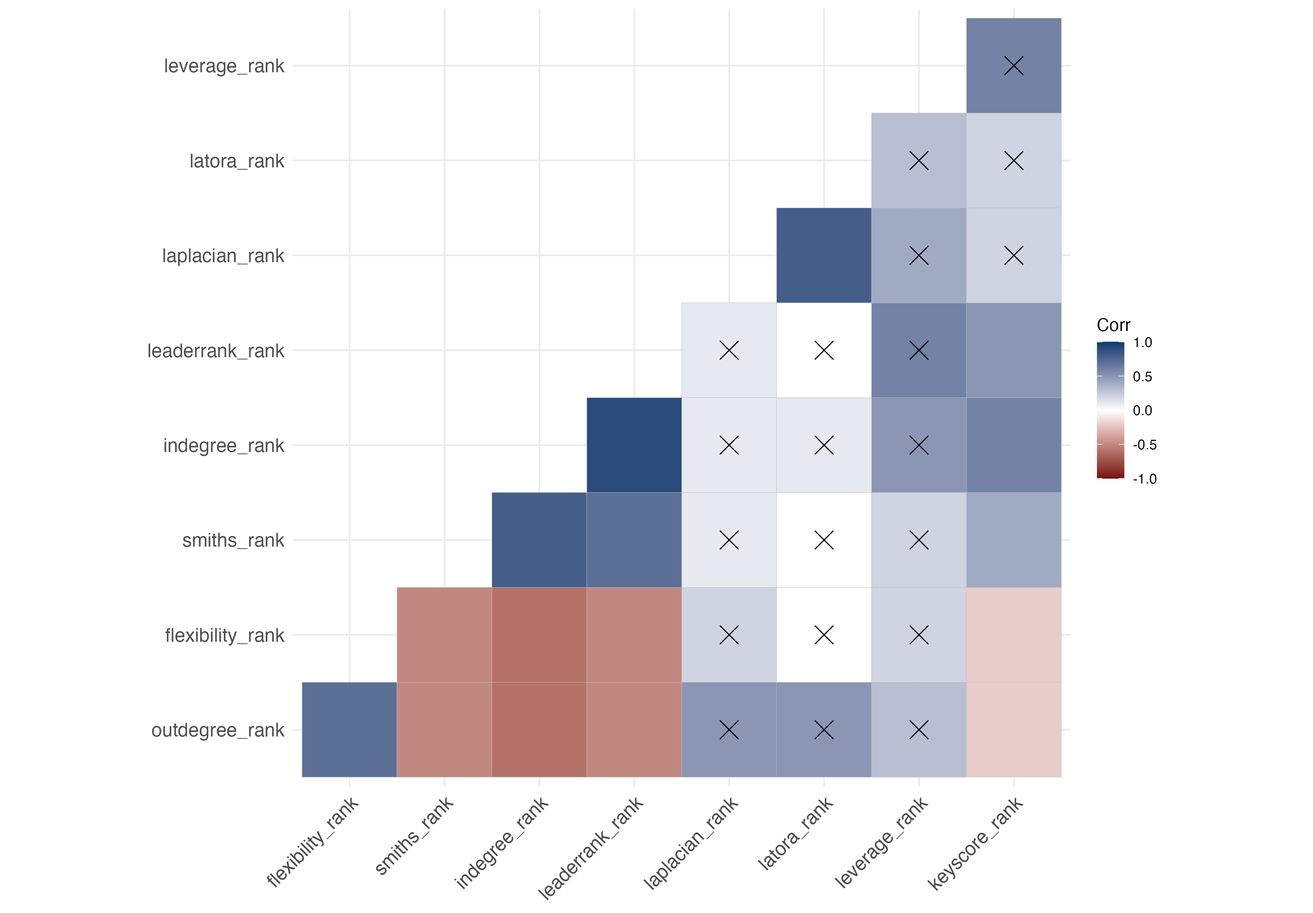
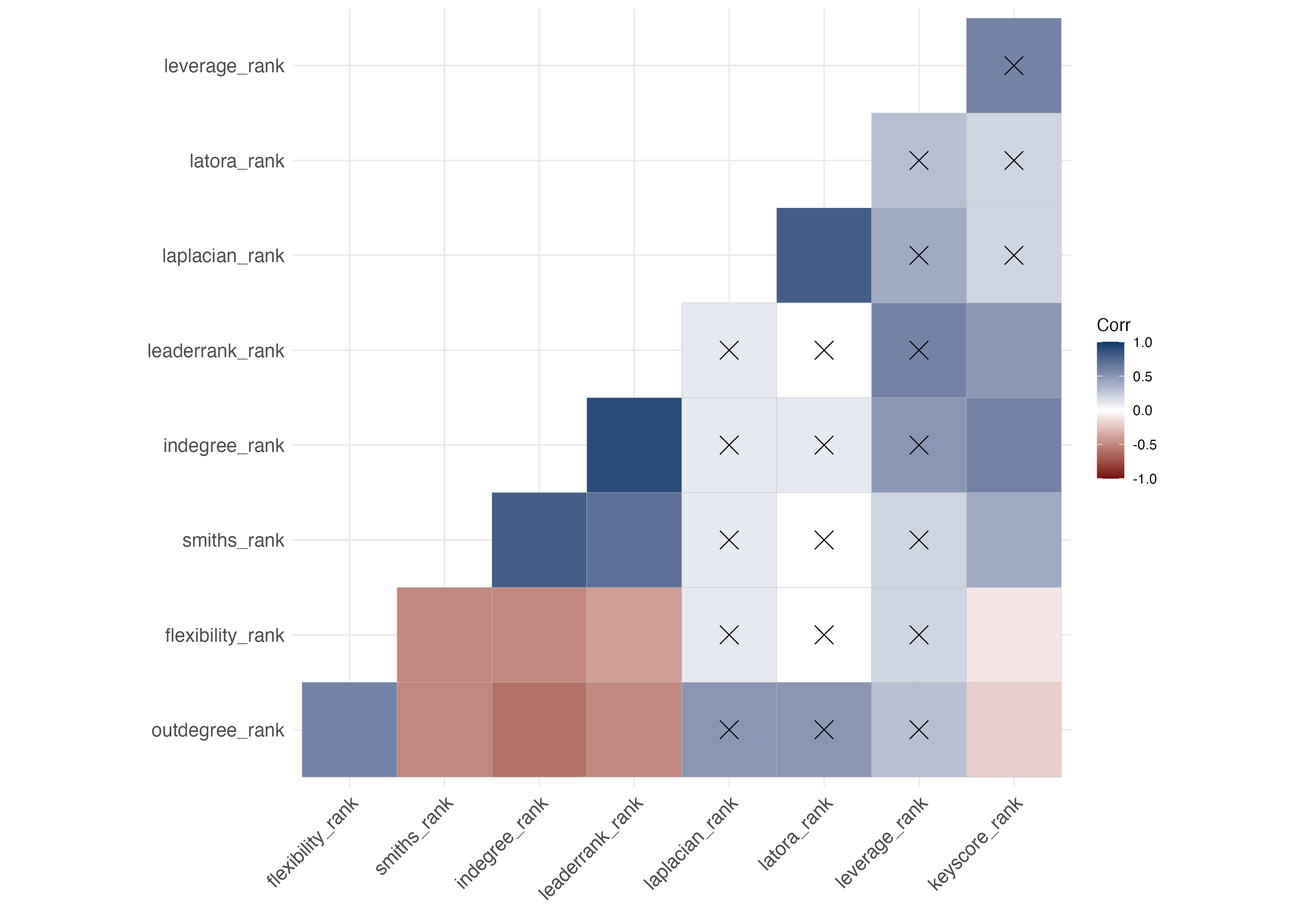
created arranged plots

Changed region(s): [[0.7133, 0.625, 0.8064, 0.75]]

diff --git a/docs/index.html b/docs/index.html
@@ -116,8 +116,8 @@ code span.wa { color: #5e5e5e; font-style: italic; } /* Warning */
   <link rel="license" href="https://creativecommons.org/licenses/by-nc-sa/4.0/"/>
 
   <!--  https://schema.org/Article -->
-  <meta property="article:published" itemprop="datePublished" content="2023-05-07"/>
-  <meta property="article:created" itemprop="dateCreated" content="2023-05-07"/>
+  <meta property="article:published" itemprop="datePublished" content="2023-05-08"/>
+  <meta property="article:created" itemprop="dateCreated" content="2023-05-08"/>
   <meta name="article:author" content="Jeremy F Price"/>
   <meta name="article:author" content="Cristina Santamaría Graff"/>
   <meta name="article:author" content="Akaash Arora"/>
@@ -139,8 +139,8 @@ code span.wa { color: #5e5e5e; font-style: italic; } /* Warning */
   <meta name="citation_title" content="The Analysis is Not the Social Network: The Analysis Is Not The Social Network"/>
   <meta name="citation_fulltext_html_url" content="https://jeremyfprice.github.io/fafi-sna/"/>
   <meta name="citation_fulltext_world_readable" content=""/>
-  <meta name="citation_online_date" content="2023/05/07"/>
-  <meta name="citation_publication_date" content="2023/05/07"/>
+  <meta name="citation_online_date" content="2023/05/08"/>
+  <meta name="citation_publication_date" content="2023/05/08"/>
   <meta name="citation_author" content="Jeremy F Price"/>
   <meta name="citation_author_institution" content="IU School of Education-Indianapolis"/>
   <meta name="citation_author" content="Cristina Santamaría Graff"/>
@@ -190,7 +190,7 @@ code span.wa { color: #5e5e5e; font-style: italic; } /* Warning */
   <!--radix_placeholder_rmarkdown_metadata-->
 
   <script type="text/json" id="radix-rmarkdown-metadata">
-  {"type":"list","attributes":{"names":{"type":"character","attributes":{},"value":["title","description","repository_url","preview","author","slug","date","output","navbar","creative_commons","bibliography","citation_url"]}},"value":[{"type":"character","attributes":{},"value":["The Analysis Is Not The Social Network"]},{"type":"character","attributes":{},"value":["Illuminating the unruly nature of intentional social networks in educational justice efforts.\n"]},{"type":"character","attributes":{},"value":["https://github.com/jeremyfprice/fafi-sna/"]},{"type":"character","attributes":{},"value":["aux/fafi-sna-logo.png"]},{"type":"list","attributes":{},"value":[{"type":"list","attributes":{"names":{"type":"character","attributes":{},"value":["name","url","affiliation","affiliation_url","orcid_id"]}},"value":[{"type":"character","attributes":{},"value":["Jeremy F Price"]},{"type":"character","attributes":{},"value":["https://www.jeremyfprice.info/"]},{"type":"character","attributes":{},"value":["IU School of Education-Indianapolis"]},{"type":"character","attributes":{},"value":["https://education.iupui.edu/"]},{"type":"character","attributes":{},"value":["0000-0002-6506-3526"]}]},{"type":"list","attributes":{"names":{"type":"character","attributes":{},"value":["name","affiliation","affiliation_url","orcid_id"]}},"value":[{"type":"character","attributes":{},"value":["Cristina Santamaría Graff"]},{"type":"character","attributes":{},"value":["IU School of Education-Indianapolis"]},{"type":"character","attributes":{},"value":["https://education.iupui.edu/"]},{"type":"character","attributes":{},"value":["0000-0002-4628-8949"]}]},{"type":"list","attributes":{"names":{"type":"character","attributes":{},"value":["name","affiliation","affiliation_url"]}},"value":[{"type":"character","attributes":{},"value":["Akaash Arora"]},{"type":"character","attributes":{},"value":["IU School of Education-Indianapolis"]},{"type":"character","attributes":{},"value":["https://education.iupui.edu/"]}]},{"type":"list","attributes":{"names":{"type":"character","attributes":{},"value":["name","affiliation","affiliation_url"]}},"value":[{"type":"character","attributes":{},"value":["Román Graff"]},{"type":"character","attributes":{},"value":["Ivy Tech Community College-Indianapolis"]},{"type":"character","attributes":{},"value":["https://www.ivytech.edu/locations/indianapolis/"]}]}]},{"type":"character","attributes":{},"value":["price2023fafisna"]},{"type":"character","attributes":{},"value":["2023-05-07"]},{"type":"list","attributes":{"names":{"type":"character","attributes":{},"value":["distill::distill_article"]}},"value":[{"type":"list","attributes":{"names":{"type":"character","attributes":{},"value":["self_contained","theme"]}},"value":[{"type":"logical","attributes":{},"value":[false]},{"type":"character","attributes":{},"value":["aux/theme.css"]}]}]},{"type":"list","attributes":{"names":{"type":"character","attributes":{},"value":["source_url"]}},"value":[{"type":"character","attributes":{},"value":["https://github.com/jeremyfprice/fafi-sna/"]}]},{"type":"character","attributes":{},"value":["CC BY-NC-SA"]},{"type":"character","attributes":{},"value":["aux/fafi-sna-references.bib"]},{"type":"character","attributes":{},"value":["https://jeremyfprice.github.io/fafi-sna/"]}]}
+  {"type":"list","attributes":{"names":{"type":"character","attributes":{},"value":["title","description","repository_url","preview","author","slug","date","output","navbar","creative_commons","bibliography","citation_url"]}},"value":[{"type":"character","attributes":{},"value":["The Analysis Is Not The Social Network"]},{"type":"character","attributes":{},"value":["Illuminating the unruly nature of intentional social networks in educational justice efforts.\n"]},{"type":"character","attributes":{},"value":["https://github.com/jeremyfprice/fafi-sna/"]},{"type":"character","attributes":{},"value":["aux/fafi-sna-logo.png"]},{"type":"list","attributes":{},"value":[{"type":"list","attributes":{"names":{"type":"character","attributes":{},"value":["name","url","affiliation","affiliation_url","orcid_id"]}},"value":[{"type":"character","attributes":{},"value":["Jeremy F Price"]},{"type":"character","attributes":{},"value":["https://www.jeremyfprice.info/"]},{"type":"character","attributes":{},"value":["IU School of Education-Indianapolis"]},{"type":"character","attributes":{},"value":["https://education.iupui.edu/"]},{"type":"character","attributes":{},"value":["0000-0002-6506-3526"]}]},{"type":"list","attributes":{"names":{"type":"character","attributes":{},"value":["name","affiliation","affiliation_url","orcid_id"]}},"value":[{"type":"character","attributes":{},"value":["Cristina Santamaría Graff"]},{"type":"character","attributes":{},"value":["IU School of Education-Indianapolis"]},{"type":"character","attributes":{},"value":["https://education.iupui.edu/"]},{"type":"character","attributes":{},"value":["0000-0002-4628-8949"]}]},{"type":"list","attributes":{"names":{"type":"character","attributes":{},"value":["name","affiliation","affiliation_url"]}},"value":[{"type":"character","attributes":{},"value":["Akaash Arora"]},{"type":"character","attributes":{},"value":["IU School of Education-Indianapolis"]},{"type":"character","attributes":{},"value":["https://education.iupui.edu/"]}]},{"type":"list","attributes":{"names":{"type":"character","attributes":{},"value":["name","affiliation","affiliation_url"]}},"value":[{"type":"character","attributes":{},"value":["Román Graff"]},{"type":"character","attributes":{},"value":["Ivy Tech Community College-Indianapolis"]},{"type":"character","attributes":{},"value":["https://www.ivytech.edu/locations/indianapolis/"]}]}]},{"type":"character","attributes":{},"value":["price2023fafisna"]},{"type":"character","attributes":{},"value":["2023-05-08"]},{"type":"list","attributes":{"names":{"type":"character","attributes":{},"value":["distill::distill_article"]}},"value":[{"type":"list","attributes":{"names":{"type":"character","attributes":{},"value":["self_contained","theme"]}},"value":[{"type":"logical","attributes":{},"value":[false]},{"type":"character","attributes":{},"value":["aux/theme.css"]}]}]},{"type":"list","attributes":{"names":{"type":"character","attributes":{},"value":["source_url"]}},"value":[{"type":"character","attributes":{},"value":["https://github.com/jeremyfprice/fafi-sna/"]}]},{"type":"character","attributes":{},"value":["CC BY-NC-SA"]},{"type":"character","attributes":{},"value":["aux/fafi-sna-references.bib"]},{"type":"character","attributes":{},"value":["https://jeremyfprice.github.io/fafi-sna/"]}]}
   </script>
   <!--/radix_placeholder_rmarkdown_metadata-->
   <!--radix_placeholder_navigation_in_header-->
@@ -2294,17 +2294,17 @@ code span.wa { color: #5e5e5e; font-style: italic; } /* Warning */
 
   .distill-site-header {
     --title-size:       18px;
-    --text-color:       #EDEBEB;
+    --text-color:       #243142;
     --text-size:        15px;
-    --hover-color:      white;
-    --bkgd-color:       #01426A;
+    --hover-color:      #EDEBEB;
+    --bkgd-color:       #99000066;
   }
 
   .distill-site-footer {
-    --text-color:       #EDEBEB;
+    --text-color:       #243142;
     --text-size:        15px;
-    --hover-color:      white;
-    --bkgd-color:       #01426A;
+    --hover-color:      #EDEBEB;
+    --bkgd-color:       #99000066;
   }
 
   /*-- Additional custom styles --*/
@@ -2507,7 +2507,7 @@ code span.wa { color: #5e5e5e; font-style: italic; } /* Warning */
 <!--radix_placeholder_front_matter-->
 
 <script id="distill-front-matter" type="text/json">
-{"title":"The Analysis Is Not The Social Network","description":"Illuminating the unruly nature of intentional social networks in educational justice efforts.","authors":[{"author":"Jeremy F Price","authorURL":"https://www.jeremyfprice.info/","affiliation":"IU School of Education-Indianapolis","affiliationURL":"https://education.iupui.edu/","orcidID":"0000-0002-6506-3526"},{"author":"Cristina Santamaría Graff","authorURL":"#","affiliation":"IU School of Education-Indianapolis","affiliationURL":"https://education.iupui.edu/","orcidID":"0000-0002-4628-8949"},{"author":"Akaash Arora","authorURL":"#","affiliation":"IU School of Education-Indianapolis","affiliationURL":"https://education.iupui.edu/","orcidID":""},{"author":"Román Graff","authorURL":"#","affiliation":"Ivy Tech Community College-Indianapolis","affiliationURL":"https://www.ivytech.edu/locations/indianapolis/","orcidID":""}],"publishedDate":"2023-05-07T00:00:00.000-04:00","citationText":"Price, et al., 2023"}
+{"title":"The Analysis Is Not The Social Network","description":"Illuminating the unruly nature of intentional social networks in educational justice efforts.","authors":[{"author":"Jeremy F Price","authorURL":"https://www.jeremyfprice.info/","affiliation":"IU School of Education-Indianapolis","affiliationURL":"https://education.iupui.edu/","orcidID":"0000-0002-6506-3526"},{"author":"Cristina Santamaría Graff","authorURL":"#","affiliation":"IU School of Education-Indianapolis","affiliationURL":"https://education.iupui.edu/","orcidID":"0000-0002-4628-8949"},{"author":"Akaash Arora","authorURL":"#","affiliation":"IU School of Education-Indianapolis","affiliationURL":"https://education.iupui.edu/","orcidID":""},{"author":"Román Graff","authorURL":"#","affiliation":"Ivy Tech Community College-Indianapolis","affiliationURL":"https://www.ivytech.edu/locations/indianapolis/","orcidID":""}],"publishedDate":"2023-05-08T00:00:00.000-04:00","citationText":"Price, et al., 2023"}
 </script>
 
 <!--/radix_placeholder_front_matter-->
@@ -2548,7 +2548,7 @@ code span.wa { color: #5e5e5e; font-style: italic; } /* Warning */
   
 ,   Román Graff  (Ivy Tech Community College-Indianapolis)<a href="https://www.ivytech.edu/locations/indianapolis/" class="uri">https://www.ivytech.edu/locations/indianapolis/</a>
   
-<br/>2023-05-07
+<br/>2023-05-08
 </div>
 
 <div class="d-article">
@@ -2906,7 +2906,10 @@ between actors.</p>
 <li><strong>Latora Closeness Centrality.</strong> A measure of <em>efficiency</em> of network graphs, particularly small
 and potentially disconnected graphs, indicating how efficiently information moves through the actor
 and across the network <span class="citation" data-cites="latoraEfficientBehaviorSmallworld2001">(<a href="#ref-latoraEfficientBehaviorSmallworld2001" role="doc-biblioref">Latora and Marchiori 2001</a>)</span>.</li>
-<li><strong>Leader Rank Centrality.</strong> <span class="citation" data-cites="luLeadersSocialNetworks2011">(<a href="#ref-luLeadersSocialNetworks2011" role="doc-biblioref">Lü et al. 2011</a>)</span>.</li>
+<li><strong>Leader Rank Centrality.</strong> A measure of influence, identifying actors who facilitate the rapid
+and wide spread of information across the network, an algorithm developed specifically for
+social networks rather than similar algorithms designed for web pages
+<span class="citation" data-cites="luLeadersSocialNetworks2011">(<a href="#ref-luLeadersSocialNetworks2011" role="doc-biblioref">Lü et al. 2011</a>)</span>.</li>
 <li><strong>Leverage Centrality.</strong> A measure of how “in the thick of it” an actor is, based on who they are connected to and who those actors are connected to, while accounting for parallel, not just serial, flows of information <span class="citation" data-cites="joyceNewMeasureCentrality2010">(<a href="#ref-joyceNewMeasureCentrality2010" role="doc-biblioref">Joyce et al. 2010</a>)</span>.</li>
 </ul>
 <div class="layout-chunk" data-layout="l-body">
@@ -2979,20 +2982,15 @@ and across the network <span class="citation" data-cites="latoraEfficientBehavio
 <span>  <span class='va'>key.res</span><span class='op'>$</span><span class='va'>actor</span> <span class='op'>&lt;-</span> <span class='fu'><a href='https://rdrr.io/r/base/row.names.html'>row.names</a></span><span class='op'>(</span><span class='va'>key.res</span><span class='op'>)</span></span>
 <span>  <span class='fu'><a href='https://rdrr.io/r/base/row.names.html'>row.names</a></span><span class='op'>(</span><span class='va'>key.res</span><span class='op'>)</span> <span class='op'>&lt;-</span> <span class='cn'>NULL</span></span>
 <span>  <span class='va'>key.frame</span> <span class='op'>&lt;-</span> <span class='va'>key.frame</span> <span class='op'>|&gt;</span></span>
-<span>    <span class='fu'><a href='https://dplyr.tidyverse.org/reference/mutate-joins.html'>left_join</a></span><span class='op'>(</span><span class='va'>key.res</span><span class='op'>)</span> <span class='op'>|&gt;</span></span>
-<span>    <span class='fu'><a href='https://dplyr.tidyverse.org/reference/mutate.html'>mutate</a></span><span class='op'>(</span>color_code <span class='op'>=</span> <span class='fu'><a href='https://rdrr.io/r/base/substr.html'>substr</a></span><span class='op'>(</span><span class='va'>key.frame</span><span class='op'>$</span><span class='va'>actor</span>, <span class='fl'>1</span>, <span class='fl'>2</span><span class='op'>)</span><span class='op'>)</span> <span class='op'>|&gt;</span></span>
-<span>    <span class='fu'><a href='https://dplyr.tidyverse.org/reference/mutate.html'>mutate</a></span><span class='op'>(</span>id_no <span class='op'>=</span> <span class='fu'><a href='https://rdrr.io/r/base/substr.html'>substr</a></span><span class='op'>(</span><span class='va'>key.frame</span><span class='op'>$</span><span class='va'>actor</span>, <span class='fl'>3</span>, <span class='fl'>4</span><span class='op'>)</span><span class='op'>)</span> <span class='op'>|&gt;</span></span>
-<span>    <span class='fu'><a href='https://dplyr.tidyverse.org/reference/mutate-joins.html'>left_join</a></span><span class='op'>(</span><span class='va'>the.abbrev</span><span class='op'>)</span> <span class='op'>|&gt;</span></span>
-<span>    <span class='fu'><a href='https://dplyr.tidyverse.org/reference/mutate.html'>mutate</a></span><span class='op'>(</span>label <span class='op'>=</span> <span class='fu'><a href='https://glue.tidyverse.org/reference/glue.html'>glue</a></span><span class='op'>(</span><span class='st'>"{full} {id_no}"</span><span class='op'>)</span><span class='op'>)</span> <span class='op'>|&gt;</span></span>
-<span>    <span class='fu'><a href='https://dplyr.tidyverse.org/reference/select.html'>select</a></span><span class='op'>(</span><span class='op'>-</span><span class='va'>full</span>, <span class='op'>-</span><span class='va'>id_no</span><span class='op'>)</span></span>
+<span>    <span class='fu'><a href='https://dplyr.tidyverse.org/reference/mutate-joins.html'>left_join</a></span><span class='op'>(</span><span class='va'>key.res</span><span class='op'>)</span></span>
 <span>  <span class='va'>leaderrank.fence</span> <span class='op'>&lt;-</span> <span class='fu'>calculate.tukey</span><span class='op'>(</span><span class='va'>key.frame</span><span class='op'>$</span><span class='va'>leaderrank</span><span class='op'>)</span></span>
 <span>  <span class='va'>key.frame.leaderrank.trimmed</span> <span class='op'>&lt;-</span> <span class='va'>key.frame</span> <span class='op'>|&gt;</span></span>
 <span>    <span class='fu'><a href='https://dplyr.tidyverse.org/reference/filter.html'>filter</a></span><span class='op'>(</span><span class='va'>leaderrank</span> <span class='op'>&gt;=</span> <span class='va'>leaderrank.fence</span><span class='op'>$</span><span class='va'>lower</span> <span class='op'>&amp;</span> <span class='va'>leaderrank</span> <span class='op'>&lt;=</span> <span class='va'>leaderrank.fence</span><span class='op'>$</span><span class='va'>upper</span><span class='op'>)</span></span>
 <span>  <span class='va'>leverage.fence</span> <span class='op'>&lt;-</span> <span class='fu'>calculate.tukey</span><span class='op'>(</span><span class='va'>key.frame</span><span class='op'>$</span><span class='va'>leverage</span><span class='op'>)</span></span>
 <span>  <span class='va'>key.frame.leverage.trimmed</span> <span class='op'>&lt;-</span> <span class='va'>key.frame</span> <span class='op'>|&gt;</span></span>
 <span>    <span class='fu'><a href='https://dplyr.tidyverse.org/reference/filter.html'>filter</a></span><span class='op'>(</span><span class='va'>leverage</span> <span class='op'>&gt;=</span> <span class='va'>leverage.fence</span><span class='op'>$</span><span class='va'>lower</span> <span class='op'>&amp;</span> <span class='va'>leverage.fence</span><span class='op'>$</span><span class='va'>upper</span><span class='op'>)</span></span>
-<span>  <span class='va'>key.ymean</span> <span class='op'>&lt;-</span> <span class='fu'><a href='https://rdrr.io/r/base/mean.html'>mean</a></span><span class='op'>(</span><span class='va'>key.frame.leaderrank.trimmed</span><span class='op'>$</span><span class='va'>leaderrank</span><span class='op'>)</span></span>
-<span>  <span class='va'>key.xmean</span> <span class='op'>&lt;-</span> <span class='fu'><a href='https://rdrr.io/r/base/mean.html'>mean</a></span><span class='op'>(</span><span class='va'>key.frame.leverage.trimmed</span><span class='op'>$</span><span class='va'>leverage</span><span class='op'>)</span></span>
+<span>  <span class='va'>key.ymean</span> <span class='op'>&lt;&lt;-</span> <span class='fu'><a href='https://rdrr.io/r/base/mean.html'>mean</a></span><span class='op'>(</span><span class='va'>key.frame.leaderrank.trimmed</span><span class='op'>$</span><span class='va'>leaderrank</span><span class='op'>)</span></span>
+<span>  <span class='va'>key.xmean</span> <span class='op'>&lt;&lt;-</span> <span class='fu'><a href='https://rdrr.io/r/base/mean.html'>mean</a></span><span class='op'>(</span><span class='va'>key.frame.leverage.trimmed</span><span class='op'>$</span><span class='va'>leverage</span><span class='op'>)</span></span>
 <span>  <span class='va'>key.frame</span> <span class='op'>&lt;-</span> <span class='va'>key.frame</span> <span class='op'>|&gt;</span></span>
 <span>    <span class='fu'><a href='https://dplyr.tidyverse.org/reference/mutate.html'>mutate</a></span><span class='op'>(</span>keystatus <span class='op'>=</span> <span class='fu'><a href='https://dplyr.tidyverse.org/reference/case_when.html'>case_when</a></span><span class='op'>(</span></span>
 <span>      <span class='op'>(</span><span class='va'>leaderrank</span> <span class='op'>&gt;</span> <span class='va'>key.ymean</span> <span class='op'>&amp;</span> <span class='va'>leverage</span> <span class='op'>&gt;</span> <span class='va'>key.xmean</span><span class='op'>)</span> <span class='op'>~</span> <span class='st'>"Sage"</span>,</span>
@@ -3004,9 +3002,8 @@ and across the network <span class="citation" data-cites="latoraEfficientBehavio
 <span>    <span class='fu'><a href='https://dplyr.tidyverse.org/reference/arrange.html'>arrange</a></span><span class='op'>(</span><span class='fu'><a href='https://dplyr.tidyverse.org/reference/desc.html'>desc</a></span><span class='op'>(</span><span class='va'>res</span><span class='op'>)</span>, <span class='fu'><a href='https://dplyr.tidyverse.org/reference/desc.html'>desc</a></span><span class='op'>(</span><span class='va'>SmithsS</span><span class='op'>)</span><span class='op'>)</span> <span class='op'>|&gt;</span></span>
 <span>    <span class='fu'><a href='https://rdrr.io/r/base/unique.html'>unique</a></span><span class='op'>(</span><span class='op'>)</span> <span class='op'>|&gt;</span></span>
 <span>    <span class='fu'><a href='https://dplyr.tidyverse.org/reference/group_by.html'>ungroup</a></span><span class='op'>(</span><span class='op'>)</span></span>
-<span>  <span class='fu'>plot.keyactors</span><span class='op'>(</span><span class='va'>key.frame</span>, <span class='va'>key.xmean</span>, <span class='va'>key.ymean</span>, <span class='va'>the.file</span><span class='op'>)</span></span>
-<span>  <span class='va'>key.frame</span> <span class='op'>&lt;-</span> <span class='va'>key.frame</span> <span class='op'><a href='https://magrittr.tidyverse.org/reference/pipe.html'>%&gt;%</a></span></span>
-<span>    <span class='fu'><a href='https://dplyr.tidyverse.org/reference/select.html'>select</a></span><span class='op'>(</span><span class='va'>actor</span>, <span class='va'>leverage</span>, <span class='va'>leaderrank</span>, <span class='va'>res</span>, <span class='va'>SmithsS</span>, <span class='va'>keystatus</span><span class='op'>)</span> <span class='op'><a href='https://magrittr.tidyverse.org/reference/pipe.html'>%&gt;%</a></span></span>
+<span>  <span class='va'>key.frame</span> <span class='op'>&lt;-</span> <span class='va'>key.frame</span> <span class='op'>|&gt;</span></span>
+<span>    <span class='fu'><a href='https://dplyr.tidyverse.org/reference/select.html'>select</a></span><span class='op'>(</span><span class='va'>actor</span>, <span class='va'>leverage</span>, <span class='va'>leaderrank</span>, <span class='va'>res</span>, <span class='va'>SmithsS</span>, <span class='va'>keystatus</span><span class='op'>)</span> <span class='op'>|&gt;</span></span>
 <span>    <span class='fu'><a href='https://dplyr.tidyverse.org/reference/arrange.html'>arrange</a></span><span class='op'>(</span><span class='va'>keystatus</span>, <span class='fu'><a href='https://dplyr.tidyverse.org/reference/desc.html'>desc</a></span><span class='op'>(</span><span class='va'>res</span><span class='op'>)</span>, <span class='fu'><a href='https://dplyr.tidyverse.org/reference/desc.html'>desc</a></span><span class='op'>(</span><span class='va'>SmithsS</span><span class='op'>)</span><span class='op'>)</span></span>
 <span>  <span class='kw'><a href='https://rdrr.io/r/base/function.html'>return</a></span><span class='op'>(</span><span class='va'>key.frame</span><span class='op'>)</span></span>
 <span><span class='op'>}</span></span></code></pre>
@@ -3015,8 +3012,8 @@ and across the network <span class="citation" data-cites="latoraEfficientBehavio
 <h4 id="plot-key-actors-function">Plot Key Actors Function</h4>
 <div class="layout-chunk" data-layout="l-body">
 <div class="sourceCode">
-<pre class="sourceCode r"><code class="sourceCode r"><span><span class='va'>plot.keyactors</span> <span class='op'>&lt;-</span> <span class='kw'>function</span><span class='op'>(</span><span class='va'>key.frame</span>, <span class='va'>key.xmean</span>, <span class='va'>key.ymean</span>, <span class='va'>the.file</span><span class='op'>)</span> <span class='op'>{</span></span>
-<span>  <span class='va'>the.filename</span> <span class='op'>&lt;-</span> <span class='fu'><a href='https://glue.tidyverse.org/reference/glue.html'>glue</a></span><span class='op'>(</span><span class='st'>"output/keyactors_{the.file}.pdf"</span><span class='op'>)</span></span>
+<pre class="sourceCode r"><code class="sourceCode r"><span><span class='va'>plot.keyactors</span> <span class='op'>&lt;-</span> <span class='kw'>function</span><span class='op'>(</span><span class='va'>key.frame</span>, <span class='va'>the.file</span><span class='op'>)</span> <span class='op'>{</span></span>
+<span>  <span class='va'>the.filename</span> <span class='op'>&lt;-</span> <span class='fu'><a href='https://glue.tidyverse.org/reference/glue.html'>glue</a></span><span class='op'>(</span><span class='st'>"keyactors_{the.file}-plot"</span><span class='op'>)</span></span>
 <span>  <span class='va'>key.xmin</span> <span class='op'>&lt;-</span> <span class='fu'><a href='https://rdrr.io/r/base/Extremes.html'>min</a></span><span class='op'>(</span><span class='va'>key.frame</span><span class='op'>$</span><span class='va'>leverage</span><span class='op'>)</span></span>
 <span>  <span class='va'>key.xmax</span> <span class='op'>&lt;-</span> <span class='fu'><a href='https://rdrr.io/r/base/Extremes.html'>max</a></span><span class='op'>(</span><span class='va'>key.frame</span><span class='op'>$</span><span class='va'>leverage</span><span class='op'>)</span></span>
 <span>  <span class='va'>key.ymin</span> <span class='op'>&lt;-</span> <span class='fu'><a href='https://rdrr.io/r/base/Extremes.html'>min</a></span><span class='op'>(</span><span class='va'>key.frame</span><span class='op'>$</span><span class='va'>leaderrank</span><span class='op'>)</span></span>
@@ -3024,6 +3021,12 @@ and across the network <span class="citation" data-cites="latoraEfficientBehavio
 <span>  <span class='va'>steward.count</span> <span class='op'>&lt;-</span> <span class='fu'>count.keyactors</span><span class='op'>(</span><span class='va'>key.frame</span>, <span class='st'>"Steward"</span><span class='op'>)</span></span>
 <span>  <span class='va'>sage.count</span> <span class='op'>&lt;-</span> <span class='fu'>count.keyactors</span><span class='op'>(</span><span class='va'>key.frame</span>, <span class='st'>"Sage"</span><span class='op'>)</span></span>
 <span>  <span class='va'>weaver.count</span> <span class='op'>&lt;-</span> <span class='fu'>count.keyactors</span><span class='op'>(</span><span class='va'>key.frame</span>, <span class='st'>"Weaver"</span><span class='op'>)</span></span>
+<span>  <span class='va'>key.frame</span> <span class='op'>&lt;-</span> <span class='va'>key.frame</span>  <span class='op'>|&gt;</span></span>
+<span>    <span class='fu'><a href='https://dplyr.tidyverse.org/reference/mutate.html'>mutate</a></span><span class='op'>(</span>color_code <span class='op'>=</span> <span class='fu'><a href='https://rdrr.io/r/base/substr.html'>substr</a></span><span class='op'>(</span><span class='va'>key.frame</span><span class='op'>$</span><span class='va'>actor</span>, <span class='fl'>1</span>, <span class='fl'>2</span><span class='op'>)</span><span class='op'>)</span> <span class='op'>|&gt;</span></span>
+<span>    <span class='fu'><a href='https://dplyr.tidyverse.org/reference/mutate.html'>mutate</a></span><span class='op'>(</span>id_no <span class='op'>=</span> <span class='fu'><a href='https://rdrr.io/r/base/substr.html'>substr</a></span><span class='op'>(</span><span class='va'>key.frame</span><span class='op'>$</span><span class='va'>actor</span>, <span class='fl'>3</span>, <span class='fl'>4</span><span class='op'>)</span><span class='op'>)</span> <span class='op'>|&gt;</span></span>
+<span>    <span class='fu'><a href='https://dplyr.tidyverse.org/reference/mutate-joins.html'>left_join</a></span><span class='op'>(</span><span class='va'>the.abbrev</span><span class='op'>)</span> <span class='op'>|&gt;</span></span>
+<span>    <span class='fu'><a href='https://dplyr.tidyverse.org/reference/mutate.html'>mutate</a></span><span class='op'>(</span>label <span class='op'>=</span> <span class='fu'><a href='https://glue.tidyverse.org/reference/glue.html'>glue</a></span><span class='op'>(</span><span class='st'>"{full} {id_no}"</span><span class='op'>)</span><span class='op'>)</span> <span class='op'>|&gt;</span></span>
+<span>    <span class='fu'><a href='https://dplyr.tidyverse.org/reference/select.html'>select</a></span><span class='op'>(</span><span class='op'>-</span><span class='va'>full</span>, <span class='op'>-</span><span class='va'>id_no</span><span class='op'>)</span></span>
 <span>  <span class='va'>key.plot</span> <span class='op'>&lt;-</span> <span class='fu'><a href='https://rpkgs.datanovia.com/ggpubr/reference/ggscatter.html'>ggscatter</a></span><span class='op'>(</span><span class='va'>key.frame</span>,</span>
 <span>    x <span class='op'>=</span> <span class='st'>"leverage"</span>, y <span class='op'>=</span> <span class='st'>"leaderrank"</span>,</span>
 <span>    label <span class='op'>=</span> <span class='st'>"label"</span>, label.rectangle <span class='op'>=</span> <span class='cn'>FALSE</span>, repel <span class='op'>=</span> <span class='cn'>TRUE</span>,</span>
@@ -3054,7 +3057,7 @@ and across the network <span class="citation" data-cites="latoraEfficientBehavio
 <span>    <span class='op'>)</span>, color <span class='op'>=</span> <span class='st'>"#243142"</span>, fill <span class='op'>=</span> <span class='st'>"#A7A9AB"</span><span class='op'>)</span> <span class='op'>+</span></span>
 <span>    <span class='fu'><a href='https://rdrr.io/pkg/ggthemes/man/theme_few.html'>theme_few</a></span><span class='op'>(</span><span class='op'>)</span> <span class='op'>+</span></span>
 <span>    <span class='fu'><a href='https://ggplot2.tidyverse.org/reference/theme.html'>theme</a></span><span class='op'>(</span>legend.position <span class='op'>=</span> <span class='st'>"none"</span><span class='op'>)</span></span>
-<span>  <span class='fu'><a href='https://ggplot2.tidyverse.org/reference/ggsave.html'>ggsave</a></span><span class='op'>(</span><span class='va'>key.plot</span>, filename <span class='op'>=</span> <span class='va'>the.filename</span>, width <span class='op'>=</span> <span class='fl'>11.5</span>, height <span class='op'>=</span> <span class='fl'>8</span>, units <span class='op'>=</span> <span class='st'>"in"</span>, dpi <span class='op'>=</span> <span class='fl'>300</span><span class='op'>)</span></span>
+<span>  <span class='fu'>plot.save</span><span class='op'>(</span><span class='va'>key.plot</span>, <span class='va'>the.filename</span><span class='op'>)</span></span>
 <span>  <span class='kw'><a href='https://rdrr.io/r/base/function.html'>return</a></span><span class='op'>(</span><span class='va'>key.plot</span><span class='op'>)</span></span>
 <span><span class='op'>}</span></span></code></pre>
 </div>
@@ -3152,7 +3155,8 @@ and across the network <span class="citation" data-cites="latoraEfficientBehavio
 <span>  <span class='va'>jaccard.1</span> <span class='op'>&lt;-</span> <span class='fu'>calculate.jaccard</span><span class='op'>(</span><span class='va'>set1</span>, <span class='va'>set2</span><span class='op'>)</span></span>
 <span>  <span class='va'>jaccard.2</span> <span class='op'>&lt;-</span> <span class='fu'>calculate.jaccard</span><span class='op'>(</span><span class='va'>set2</span>, <span class='va'>set3</span><span class='op'>)</span></span>
 <span>  <span class='va'>jaccard.3</span> <span class='op'>&lt;-</span> <span class='fu'>calculate.jaccard</span><span class='op'>(</span><span class='va'>set1</span>, <span class='va'>set3</span><span class='op'>)</span></span>
-<span>  <span class='va'>the.flexibility</span> <span class='op'>&lt;-</span> <span class='fl'>1</span> <span class='op'>-</span> <span class='op'>(</span><span class='op'>(</span><span class='fl'>1</span> <span class='op'>/</span> <span class='op'>(</span><span class='fl'>3</span> <span class='op'>*</span> <span class='op'>(</span><span class='fl'>3</span> <span class='op'>-</span> <span class='fl'>1</span><span class='op'>)</span><span class='op'>)</span> <span class='op'>*</span> <span class='op'>(</span><span class='va'>jaccard.1</span> <span class='op'>+</span> <span class='va'>jaccard.2</span> <span class='op'>+</span> <span class='va'>jaccard.3</span><span class='op'>)</span><span class='op'>)</span> <span class='op'>/</span> <span class='fl'>3</span><span class='op'>)</span></span>
+<span>  <span class='co'>#the.flexibility &lt;- 1 - ((1 / (3 * (3 - 1)) * (jaccard.1 + jaccard.2 + jaccard.3)) / 3)</span></span>
+<span>  <span class='va'>the.flexibility</span> <span class='op'>&lt;-</span> <span class='fl'>1</span> <span class='op'>-</span> <span class='op'>(</span><span class='op'>(</span><span class='va'>jaccard.1</span> <span class='op'>+</span> <span class='va'>jaccard.2</span> <span class='op'>+</span> <span class='va'>jaccard.3</span><span class='op'>)</span> <span class='op'>/</span> <span class='fl'>3</span><span class='op'>)</span></span>
 <span>  <span class='va'>response.frame</span> <span class='op'>&lt;-</span> <span class='fu'><a href='https://rdrr.io/r/base/data.frame.html'>data.frame</a></span><span class='op'>(</span>actor <span class='op'>=</span> <span class='va'>the.actor</span>, flexibility <span class='op'>=</span> <span class='va'>the.flexibility</span><span class='op'>)</span></span>
 <span>  <span class='kw'><a href='https://rdrr.io/r/base/function.html'>return</a></span><span class='op'>(</span><span class='va'>response.frame</span><span class='op'>)</span></span>
 <span><span class='op'>}</span></span></code></pre>
@@ -3215,6 +3219,7 @@ and across the network <span class="citation" data-cites="latoraEfficientBehavio
 <span><span class='va'>pates.q1.plot</span> <span class='op'>&lt;-</span> <span class='fu'>draw.graph</span><span class='op'>(</span><span class='va'>pates.q1.graph</span>, <span class='st'>"q1_pates"</span><span class='op'>)</span></span>
 <span><span class='va'>pates.q1.cent</span> <span class='op'>&lt;-</span> <span class='fu'>calculate.centrality</span><span class='op'>(</span><span class='va'>pates.q1.graph</span>, <span class='va'>pates.q1.salience</span>, <span class='st'>"q1_pates"</span><span class='op'>)</span></span>
 <span><span class='va'>pates.q1.key</span> <span class='op'>&lt;-</span> <span class='fu'>calculate.keyactors</span><span class='op'>(</span><span class='va'>pates.q1.cent</span>, <span class='st'>"q1_pates"</span><span class='op'>)</span></span>
+<span><span class='va'>pates.q1.key.plot</span> <span class='op'>&lt;-</span> <span class='fu'>plot.keyactors</span><span class='op'>(</span><span class='va'>pates.q1.key</span>, <span class='st'>"q1_pates"</span><span class='op'>)</span></span>
 <span></span>
 <span><span class='va'>ncfl.q1.frame</span> <span class='op'>&lt;-</span> <span class='va'>ncfl.frame</span> <span class='op'>|&gt;</span></span>
 <span>  <span class='fu'><a href='https://dplyr.tidyverse.org/reference/filter.html'>filter</a></span><span class='op'>(</span><span class='va'>question</span> <span class='op'>==</span> <span class='st'>"Q1"</span><span class='op'>)</span></span>
@@ -3223,6 +3228,7 @@ and across the network <span class="citation" data-cites="latoraEfficientBehavio
 <span><span class='va'>ncfl.q1.plot</span> <span class='op'>&lt;-</span> <span class='fu'>draw.graph</span><span class='op'>(</span><span class='va'>ncfl.q1.graph</span>, <span class='st'>"q1_ncfl"</span><span class='op'>)</span></span>
 <span><span class='va'>ncfl.q1.cent</span> <span class='op'>&lt;-</span> <span class='fu'>calculate.centrality</span><span class='op'>(</span><span class='va'>ncfl.q1.graph</span>, <span class='va'>ncfl.q1.salience</span>, <span class='st'>"q1_ncfl"</span><span class='op'>)</span></span>
 <span><span class='va'>ncfl.q1.key</span> <span class='op'>&lt;-</span> <span class='fu'>calculate.keyactors</span><span class='op'>(</span><span class='va'>ncfl.q1.cent</span>, <span class='st'>"q1_ncfl"</span><span class='op'>)</span></span>
+<span><span class='va'>ncfl.q1.key.plot</span> <span class='op'>&lt;-</span> <span class='fu'>plot.keyactors</span><span class='op'>(</span><span class='va'>ncfl.q1.key</span>, <span class='st'>"q1_ncfl"</span><span class='op'>)</span></span>
 <span></span>
 <span><span class='va'>pates.q3.frame</span> <span class='op'>&lt;-</span> <span class='va'>pates.frame</span> <span class='op'>|&gt;</span></span>
 <span>  <span class='fu'><a href='https://dplyr.tidyverse.org/reference/filter.html'>filter</a></span><span class='op'>(</span><span class='va'>question</span> <span class='op'>==</span> <span class='st'>"Q3"</span><span class='op'>)</span></span>
@@ -3231,6 +3237,7 @@ and across the network <span class="citation" data-cites="latoraEfficientBehavio
 <span><span class='va'>pates.q3.plot</span> <span class='op'>&lt;-</span> <span class='fu'>draw.graph</span><span class='op'>(</span><span class='va'>pates.q3.graph</span>, <span class='st'>"q3_pates"</span><span class='op'>)</span></span>
 <span><span class='va'>pates.q3.cent</span> <span class='op'>&lt;-</span> <span class='fu'>calculate.centrality</span><span class='op'>(</span><span class='va'>pates.q3.graph</span>, <span class='va'>pates.q3.salience</span>, <span class='st'>"q3_pates"</span><span class='op'>)</span></span>
 <span><span class='va'>pates.q3.key</span> <span class='op'>&lt;-</span> <span class='fu'>calculate.keyactors</span><span class='op'>(</span><span class='va'>pates.q3.cent</span>, <span class='st'>"q3_pates"</span><span class='op'>)</span></span>
+<span><span class='va'>pates.q3.key.plot</span> <span class='op'>&lt;-</span> <span class='fu'>plot.keyactors</span><span class='op'>(</span><span class='va'>pates.q3.key</span>, <span class='st'>"q3_pates"</span><span class='op'>)</span></span>
 <span></span>
 <span><span class='va'>ncfl.q3.frame</span> <span class='op'>&lt;-</span> <span class='va'>ncfl.frame</span> <span class='op'>|&gt;</span></span>
 <span>  <span class='fu'><a href='https://dplyr.tidyverse.org/reference/filter.html'>filter</a></span><span class='op'>(</span><span class='va'>question</span> <span class='op'>==</span> <span class='st'>"Q3"</span><span class='op'>)</span></span>
@@ -3239,6 +3246,7 @@ and across the network <span class="citation" data-cites="latoraEfficientBehavio
 <span><span class='va'>ncfl.q3.plot</span> <span class='op'>&lt;-</span> <span class='fu'>draw.graph</span><span class='op'>(</span><span class='va'>ncfl.q3.graph</span>, <span class='st'>"q3_ncfl"</span><span class='op'>)</span></span>
 <span><span class='va'>ncfl.q3.cent</span> <span class='op'>&lt;-</span> <span class='fu'>calculate.centrality</span><span class='op'>(</span><span class='va'>ncfl.q3.graph</span>, <span class='va'>ncfl.q3.salience</span>, <span class='st'>"q3_ncfl"</span><span class='op'>)</span></span>
 <span><span class='va'>ncfl.q3.key</span> <span class='op'>&lt;-</span> <span class='fu'>calculate.keyactors</span><span class='op'>(</span><span class='va'>ncfl.q3.cent</span>, <span class='st'>"q3_ncfl"</span><span class='op'>)</span></span>
+<span><span class='va'>ncfl.q3.key.plot</span> <span class='op'>&lt;-</span> <span class='fu'>plot.keyactors</span><span class='op'>(</span><span class='va'>ncfl.q3.key</span>, <span class='st'>"q3_ncfl"</span><span class='op'>)</span></span>
 <span></span>
 <span><span class='va'>pates.q4.frame</span> <span class='op'>&lt;-</span> <span class='va'>pates.frame</span> <span class='op'>|&gt;</span></span>
 <span>  <span class='fu'><a href='https://dplyr.tidyverse.org/reference/filter.html'>filter</a></span><span class='op'>(</span><span class='va'>question</span> <span class='op'>==</span> <span class='st'>"Q4"</span><span class='op'>)</span></span>
@@ -3247,6 +3255,7 @@ and across the network <span class="citation" data-cites="latoraEfficientBehavio
 <span><span class='va'>pates.q4.plot</span> <span class='op'>&lt;-</span> <span class='fu'>draw.graph</span><span class='op'>(</span><span class='va'>pates.q4.graph</span>, <span class='st'>"q4_pates"</span><span class='op'>)</span></span>
 <span><span class='va'>pates.q4.cent</span> <span class='op'>&lt;-</span> <span class='fu'>calculate.centrality</span><span class='op'>(</span><span class='va'>pates.q4.graph</span>, <span class='va'>pates.q4.salience</span>, <span class='st'>"q4_pates"</span><span class='op'>)</span></span>
 <span><span class='va'>pates.q4.key</span> <span class='op'>&lt;-</span> <span class='fu'>calculate.keyactors</span><span class='op'>(</span><span class='va'>pates.q4.cent</span>, <span class='st'>"q4_pates"</span><span class='op'>)</span></span>
+<span><span class='va'>pates.q4.key.plot</span> <span class='op'>&lt;-</span> <span class='fu'>plot.keyactors</span><span class='op'>(</span><span class='va'>pates.q4.key</span>, <span class='st'>"q4_pates"</span><span class='op'>)</span></span>
 <span></span>
 <span><span class='va'>ncfl.q4.frame</span> <span class='op'>&lt;-</span> <span class='va'>ncfl.frame</span> <span class='op'>|&gt;</span></span>
 <span>  <span class='fu'><a href='https://dplyr.tidyverse.org/reference/filter.html'>filter</a></span><span class='op'>(</span><span class='va'>question</span> <span class='op'>==</span> <span class='st'>"Q4"</span><span class='op'>)</span></span>
@@ -3254,15 +3263,24 @@ and across the network <span class="citation" data-cites="latoraEfficientBehavio
 <span><span class='va'>ncfl.q4.graph</span> <span class='op'>&lt;-</span> <span class='fu'>set.graph</span><span class='op'>(</span><span class='va'>ncfl.q4.frame</span>, <span class='va'>ncfl.q4.salience</span><span class='op'>)</span></span>
 <span><span class='va'>ncfl.q4.plot</span> <span class='op'>&lt;-</span> <span class='fu'>draw.graph</span><span class='op'>(</span><span class='va'>ncfl.q4.graph</span>, <span class='st'>"q4_ncfl"</span><span class='op'>)</span></span>
 <span><span class='va'>ncfl.q4.cent</span> <span class='op'>&lt;-</span> <span class='fu'>calculate.centrality</span><span class='op'>(</span><span class='va'>ncfl.q4.graph</span>, <span class='va'>ncfl.q4.salience</span>, <span class='st'>"q4_ncfl"</span><span class='op'>)</span></span>
-<span><span class='va'>ncfl.q4.key</span> <span class='op'>&lt;-</span> <span class='fu'>calculate.keyactors</span><span class='op'>(</span><span class='va'>ncfl.q4.cent</span>, <span class='st'>"q4_ncfl"</span><span class='op'>)</span></span></code></pre>
+<span><span class='va'>ncfl.q4.key</span> <span class='op'>&lt;-</span> <span class='fu'>calculate.keyactors</span><span class='op'>(</span><span class='va'>ncfl.q4.cent</span>, <span class='st'>"q4_ncfl"</span><span class='op'>)</span></span>
+<span><span class='va'>ncfl.q4.key.plot</span> <span class='op'>&lt;-</span> <span class='fu'>plot.keyactors</span><span class='op'>(</span><span class='va'>ncfl.q4.key</span>, <span class='st'>"q4_ncfl"</span><span class='op'>)</span></span></code></pre>
 </div>
 </div>
 <div class="layout-chunk" data-layout="l-body">
 
 </div>
-<div class="layout-chunk" data-layout="l-body-outset">
+<figure>
+<img src="aux/grid-sna.png" alt="Grid of Social Network Plots" />
+<figcaption aria-hidden="true">Grid of Social Network Plots</figcaption>
+</figure>
+<div class="layout-chunk" data-layout="l-body">
 
 </div>
+<figure>
+<img src="aux/grid-key.png" alt="Grid of Social Network Plots" />
+<figcaption aria-hidden="true">Grid of Social Network Plots</figcaption>
+</figure>
 <h1 id="analyzing-the-data">Analyzing the Data</h1>
 <h3 id="preparing-the-scores">Preparing the Scores</h3>
 <h4 id="calculate-actor-flexibility-score">Calculate Actor Flexibility Score</h4>
@@ -3807,7 +3825,7 @@ Wickham, Hadley, Davis Vaughan, and Maximilian Girlich. 2023. <em>Tidyr: Tidy Me
 <p>Text and figures are licensed under Creative Commons Attribution <a rel="license" href="https://creativecommons.org/licenses/by-nc-sa/4.0/">CC BY-NC-SA 4.0</a>. Source code is available at <a href="https://github.com/jeremyfprice/fafi-sna/">https://github.com/jeremyfprice/fafi-sna/</a>, unless otherwise noted. The figures that have been reused from other sources don't fall under this license and can be recognized by a note in their caption: "Figure from ...".</p>
 <h3 id="citation">Citation</h3>
 <p>For attribution, please cite this work as</p>
-<pre class="citation-appendix short">Price, et al. (2023, May 7). The Analysis is Not the Social Network: The Analysis Is Not The Social Network. Retrieved from https://jeremyfprice.github.io/fafi-sna/</pre>
+<pre class="citation-appendix short">Price, et al. (2023, May 8). The Analysis is Not the Social Network: The Analysis Is Not The Social Network. Retrieved from https://jeremyfprice.github.io/fafi-sna/</pre>
 <p>BibTeX citation</p>
 <pre class="citation-appendix long">@misc{price2023fafisna,
   author = {Price, Jeremy F and Graff, Cristina Santamaría and Arora, Akaash and Graff, Román},
@@ -3819,9 +3837,9 @@ Wickham, Hadley, Davis Vaughan, and Maximilian Girlich. 2023. <em>Tidyr: Tidy Me
 <!--/radix_placeholder_appendices-->
 <!--radix_placeholder_navigation_after_body-->
 <div class="distill-site-nav distill-site-footer">
-<p><a href="https://ceisl.iupui.edu/"><img src = "aux/ceisl-logo.png" alt="CEISL Logo" width="17" height="22" /></a>
-A Project of the Collaborative for Equitable and Inclusive STEM Learning
+<p>A Project of the Collaborative for Equitable and Inclusive STEM Learning
 at the IU School of Education-Indianapolis</p>
+<p><img src="aux/iupui-logo.png" alt="IUPUI Logo" /></p>
 </div>
 <!--/radix_placeholder_navigation_after_body-->
 

diff --git a/aux/theme.css b/aux/theme.css
@@ -61,17 +61,17 @@ d-appendix {
 
 .distill-site-header {
   --title-size:       18px;
-  --text-color:       #EDEBEB;
+  --text-color:       #243142;
   --text-size:        15px;
-  --hover-color:      white;
-  --bkgd-color:       #01426A;
+  --hover-color:      #EDEBEB;
+  --bkgd-color:       #99000066;
 }
 
 .distill-site-footer {
-  --text-color:       #EDEBEB;
+  --text-color:       #243142;
   --text-size:        15px;
-  --hover-color:      white;
-  --bkgd-color:       #01426A;
+  --hover-color:      #EDEBEB;
+  --bkgd-color:       #99000066;
 }
 
 /*-- Additional custom styles --*/

diff --git a/docs/aux/theme.css b/docs/aux/theme.css
@@ -61,17 +61,17 @@ d-appendix {
 
 .distill-site-header {
   --title-size:       18px;
-  --text-color:       #EDEBEB;
+  --text-color:       #243142;
   --text-size:        15px;
-  --hover-color:      white;
-  --bkgd-color:       #01426A;
+  --hover-color:      #EDEBEB;
+  --bkgd-color:       #99000066;
 }
 
 .distill-site-footer {
-  --text-color:       #EDEBEB;
+  --text-color:       #243142;
   --text-size:        15px;
-  --hover-color:      white;
-  --bkgd-color:       #01426A;
+  --hover-color:      #EDEBEB;
+  --bkgd-color:       #99000066;
 }
 
 /*-- Additional custom styles --*/

diff --git a/_footer.html b/_footer.html
@@ -1,2 +1,3 @@
-<a href="https://ceisl.iupui.edu/"><img src = "aux/ceisl-logo.png" alt="CEISL Logo" width="17" height="22" /></a> A Project of the Collaborative for Equitable and Inclusive STEM Learning
-at the IU School of Education-Indianapolis
+<p>A Project of the Collaborative for Equitable and Inclusive STEM Learning
+at the IU School of Education-Indianapolis</p>
+<p><img src="aux/iupui-logo.png" alt="IUPUI Logo" /></p>
